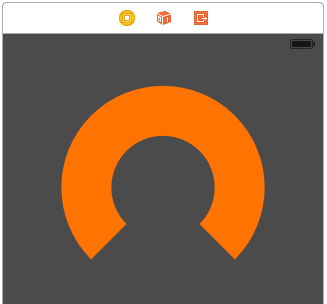
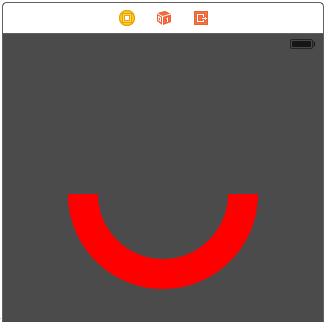
adding arc via coregraphics

Changed region(s): [[0.184, 0.2664, 0.8282, 0.9178], [0.0, 0.0, 1.0, 1.0], [0.0, 0.977, 0.0307, 1.0]]

diff --git a/README.md b/README.md
@@ -10,7 +10,8 @@ Swift 2
 
 ####Jump to a Topic
 
-[Drawing an arc](https://github.com/ccabanero/ios-coregraphics-snippets#drawing-an-arc)
+[Drawing an arc (via UIBezierPath)](https://github.com/ccabanero/ios-coregraphics-snippets#drawing-an-arc)
+
 
 [Drawing an ellipse](https://github.com/ccabanero/ios-coregraphics-snippets#drawing-an-ellipse)
 
@@ -29,8 +30,34 @@ Swift 2
 [Clipping a gradient with a Path](https://github.com/ccabanero/ios-coregraphics-snippets#clipping-a-gradient-with-a-path)
 
 ####Drawing an arc
-
 ![icon](imgs/arc.png)
+
+````
+@IBDesignable
+class CustomView: UIView {
+
+    override func drawRect(rect: CGRect) {
+
+        let context = UIGraphicsGetCurrentContext()
+
+        CGContextSetLineWidth(context, 30.0)
+
+        CGContextSetStrokeColorWithColor(context, UIColor.redColor().CGColor)
+
+        CGContextMoveToPoint(context, 20, 100)
+        CGContextAddArcToPoint(context, 20,180, 100,180, 80)
+
+        CGContextMoveToPoint(context, 100, 180)
+        CGContextAddArcToPoint(context, 180, 180, 180, 100, 80)
+
+        CGContextStrokePath(context)
+    }
+}
+````
+
+####Drawing an arc (via UIBezierPath)
+
+![icon](imgs/arc_uibezierpath.png)
 
 ````
 @IBDesignable
